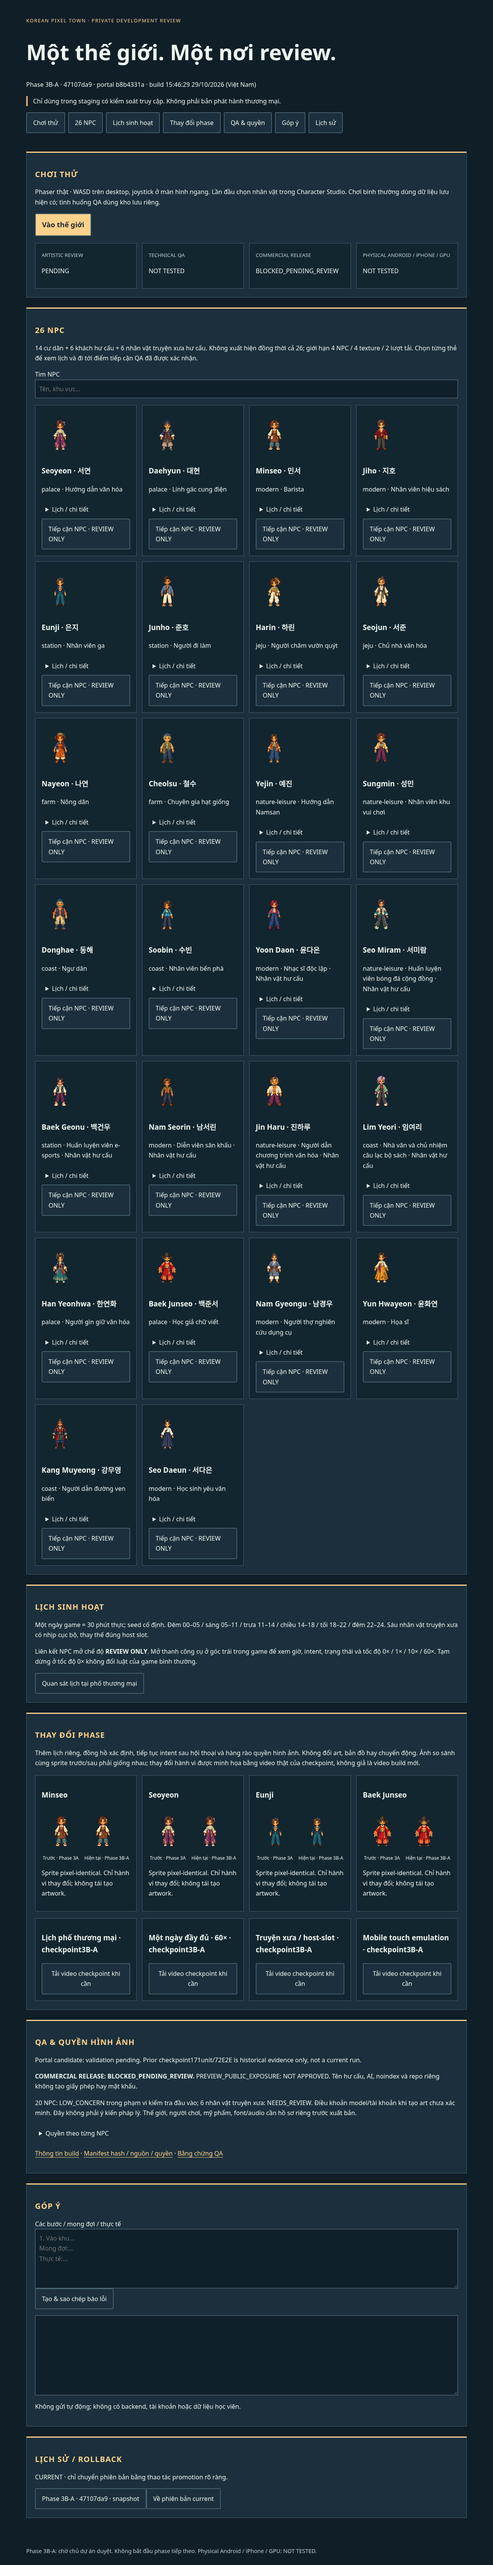
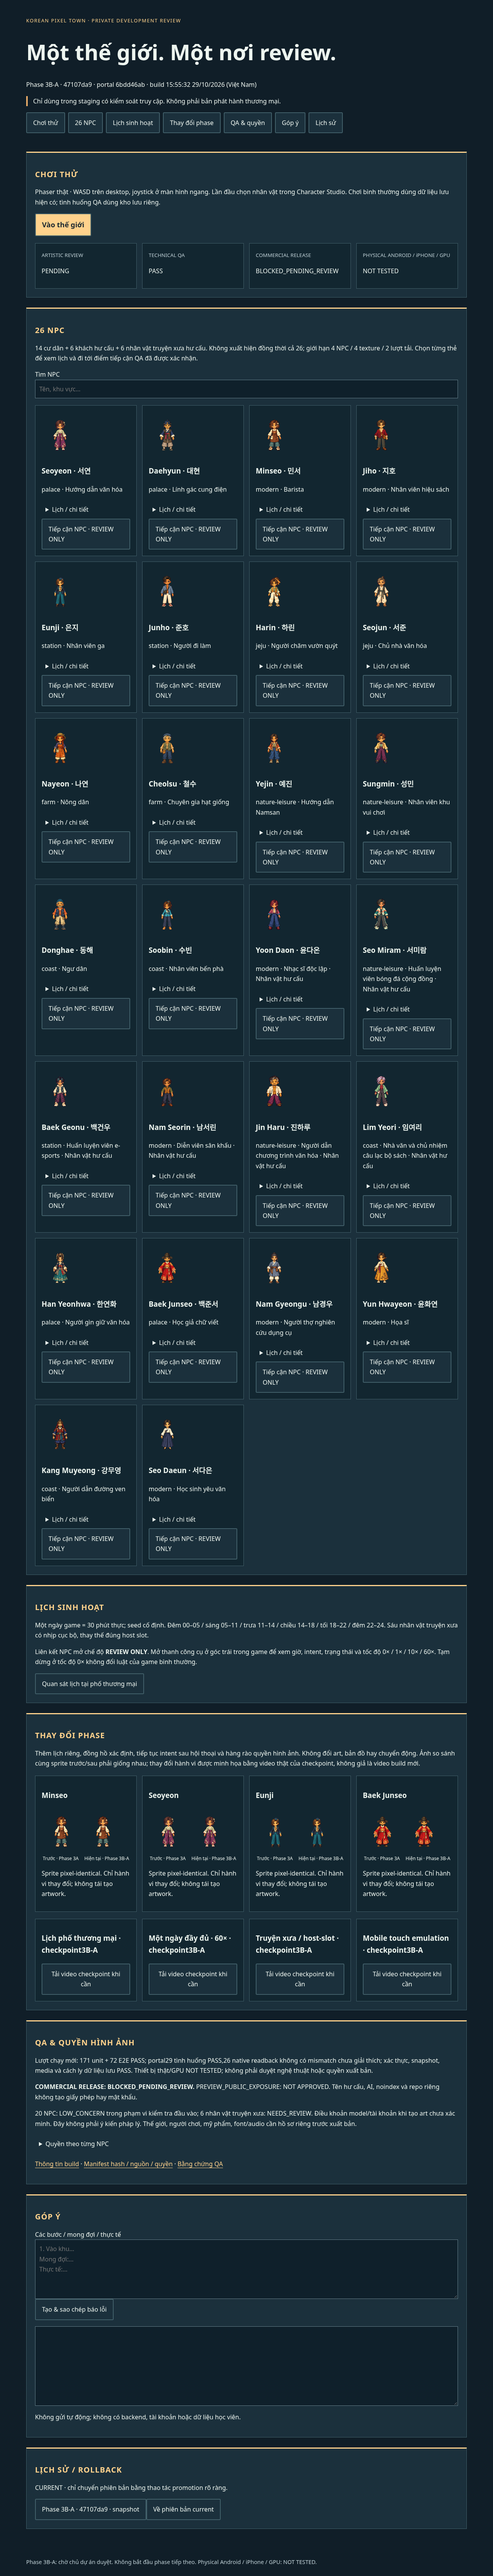
Record final private portal replay, protected assets, and hosting handoff

diff --git a/docs/review-portal/README.md b/docs/review-portal/README.md
@@ -42,8 +42,10 @@ Use an owner-controlled HTTPS domain and server, with **all paths including asse
 3. Start under a process manager, with the selected release as root:
 
 ```bash
-python3 tools/review-portal/serve.py --root /srv/korean-review/releases/REVIEW_ID --port 4490
+python3 tools/review-portal/serve.py --root /srv/korean-review/releases/REVIEW_ID --port 4490 --base /3D-pharse5-review/
 ```
+
+For a hostname-root deployment, rebuild with `VITE_REVIEW_BASE=/` and use `--base /` instead. The default candidate is tested under `/3D-pharse5-review/`.
 
 4. Apply a real owner-controlled TLS hostname using `templates/Caddyfile.example`, proxying only to127.0.0.1:4490. Restrict server administration/firewall appropriately; no public static bypass or CDN mirror of this directory.
 5. Check anonymously that `/`, `/play/`, manifests, snapshots, JS and sprites all return401; then authenticate and run desktop/mobile review, lazy assets, video playback and return/save checks. Do not send owner a link until remoteTLS/auth checks genuinely pass.
@@ -74,3 +76,9 @@ The manifest deliberately marks public exposure NOT_APPROVED and upstreamterms i
 ## Copy/paste next-phase update request
 
 > Phase [NAME] is ready for review at checkedcommit [FULL_SHA]. Update the existing private review portal only; preserve its URL, earlier snapshots, approvedart and saves. Run tests and exact-artifact exposure/privacy gates, prepare a new immutable candidate, then promote only to the already authorized access-controlled host. Show currentvsarchived status and honestQA/rights/hardware results. No public exposure, commercial release, gameplaymainmerge or nextphase unless separately authorized. Reply with the one verifiedreviewURL after remotechecks; otherwise state NOTDEPLOYED and the exact remainingstep.
+
+## Final local handoff
+
+Verified candidate: `.cache/review-portal-ready/` built from clean portal-source `6bdd46abdb3c731c30d0036ee055a862eb27e091`; actual game `47107da9a859ffcc6670f99705cee7dc44d6b34a`. `FINAL_HANDOFF.json` pins its complete manifest checksum and final29portalchecks/26nativeactors/4videoplaybacks. All171unit+72E2Eare fresh. Checkpoint `checkpoint/review-portal-private-candidate-20261029` is local only; no GitHubpush/merge/Pagesdeployment occurred. Export remains PRIVATE ONLY, NOT DEPLOYED.
+
+An incremental localGitbundle is prepared at `.cache/review-portal-source.bundle` for recovery against the existing `bc7c5916` repository, with checksum in `SOURCE_BUNDLE.json`. It is not served by the revieworigin and contains no deploymentcredentials. Do not publish it to a publichost as a workaround for the exposuregate.

diff --git a/docs/review-portal/CODE_DIFF.md b/docs/review-portal/CODE_DIFF.md
@@ -1,0 +1,17 @@
+# Exact boundary of the change
+
+Baseline: bc7c5916 (47107da9 is the verified game review snapshot). New branch feature/one-link-review-portal.
+
+Only three preexisting files change:
+
+- AGENTS.md: prepend latest owner portal-only authority; historical instructions retained.
+- docs/current/PROJECT_STATE.md: prepend current review task and link; no game state migration.
+- vite.config.ts: `base: process.env.VITE_REVIEW_BASE ?? "/3D-pharse5-/"`. Default behavior and rights gate retained; verification workflow unchanged.
+
+All preexisting source/game/art/atlases/schedules/dialogues/IDs/collision/save implementation/tests are byte-identical.23274existingfiles unchanged. See PROTECTED_AUDIT.json for exactbefore/afterhashes of the three permitted files.
+
+Additive files: review-portal static UI/config; src/review/bridge.ts only injected by dedicated review build; allowlisted assembly, authenticatedloopbackserver, immutableprivatepromotion and testtools; reviewdocs/evidence. No module from the newreviewbridge is imported into canonical gameentry.
+
+The dedicatedbuild validates existingrights inventory before compilation, then sanitizes its bundled report to only26publicnames/IDs/statuses. Fullrawprovenance/audit data stays in immutable repositorysources. This does not change src/rights/runtime.ts or contract, grant rights, disable sourcevalidation or enable publicrelease.
+
+No liveworkflow installed, no hostingresource created, no mainmerge, no oldPagesreplacement, no sourceartgeneration, no nextphase. Disabledworkflowtemplate is documentationonly. Currentrights/hardware/ownerreviewblockers remain explicit.
